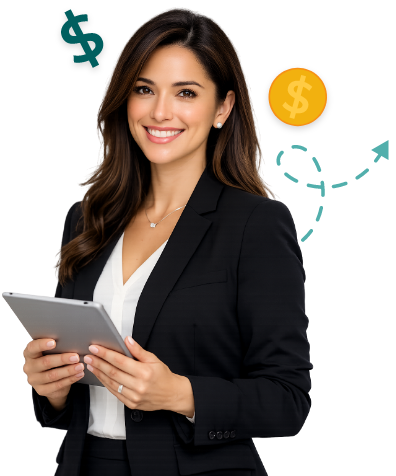
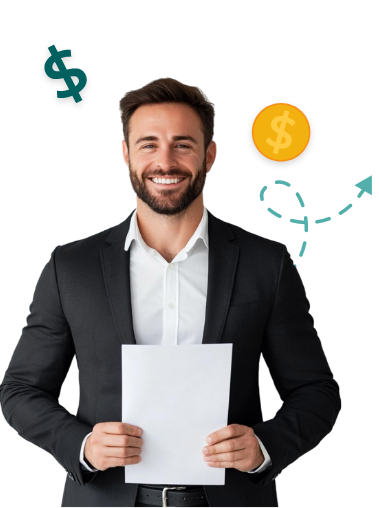
CF modificado

diff --git a/src/styles/_custom.sass b/src/styles/_custom.sass
@@ -2,12 +2,12 @@
   &-1
     animation: float1 3.5s ease-in-out infinite alternate
     position: absolute
-    top: 10%
-    right: 70%
+    top: 25%
+    left: -15%
   &-2
     animation: float2 2.8s ease-in-out infinite alternate
     position: absolute
-    top: 20%
+    top: 60%
     right: 10%
   &-3
     animation: float1 2.8s ease-in-out infinite alternate
@@ -31,7 +31,8 @@
   background-position: left 50% !important
 
 .banner-principal__row .banner-principal__img
-  width: 400px !important  
+  width: 390px !important
+  padding-bottom: 0px !important
 
 .titulo-principal.color-acento-contenido .titulo-principal__numero span
   color: $color-sistema-texto !important

diff --git a/src/config/global.js b/src/config/global.js
@@ -153,7 +153,7 @@ export default {
       {
         icono: 'fas fa-file-pdf',
         titulo: 'Descargar PDF',
-        download: 'downloads/123101_CF11_DU.pdf',
+        download: 'downloads/133100_CF11_DU.pdf',
       },
       {
         icono: 'fas fa-download',